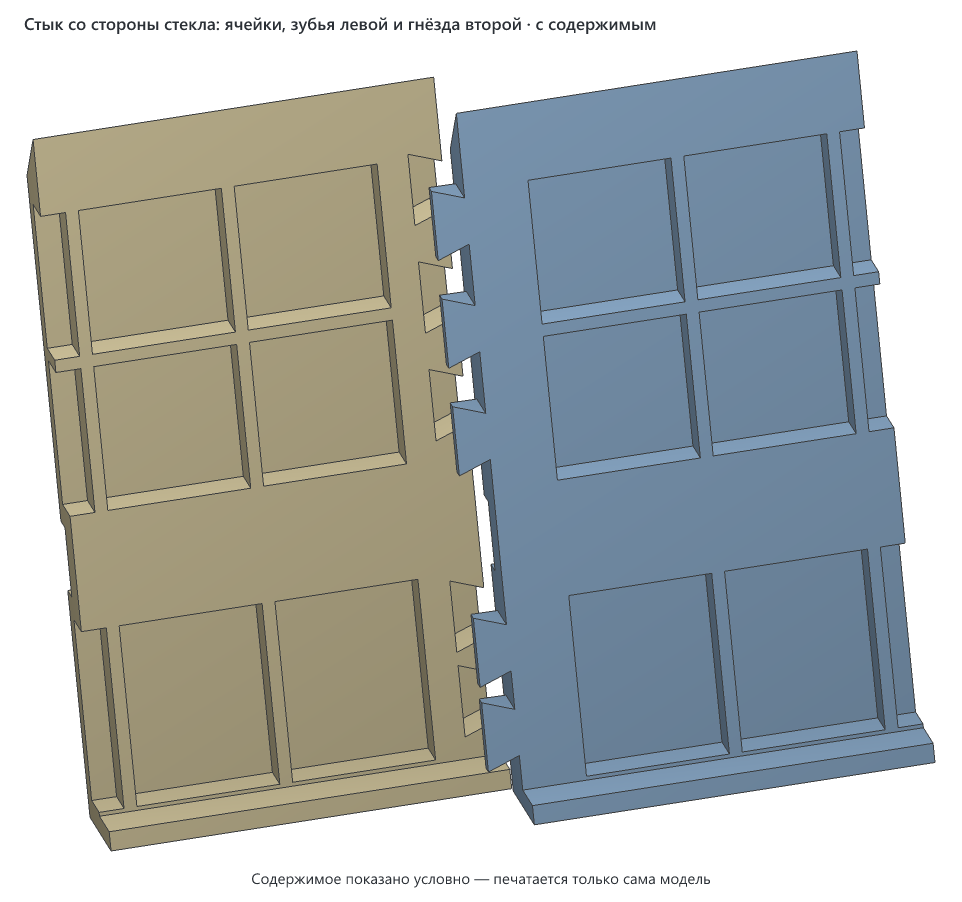
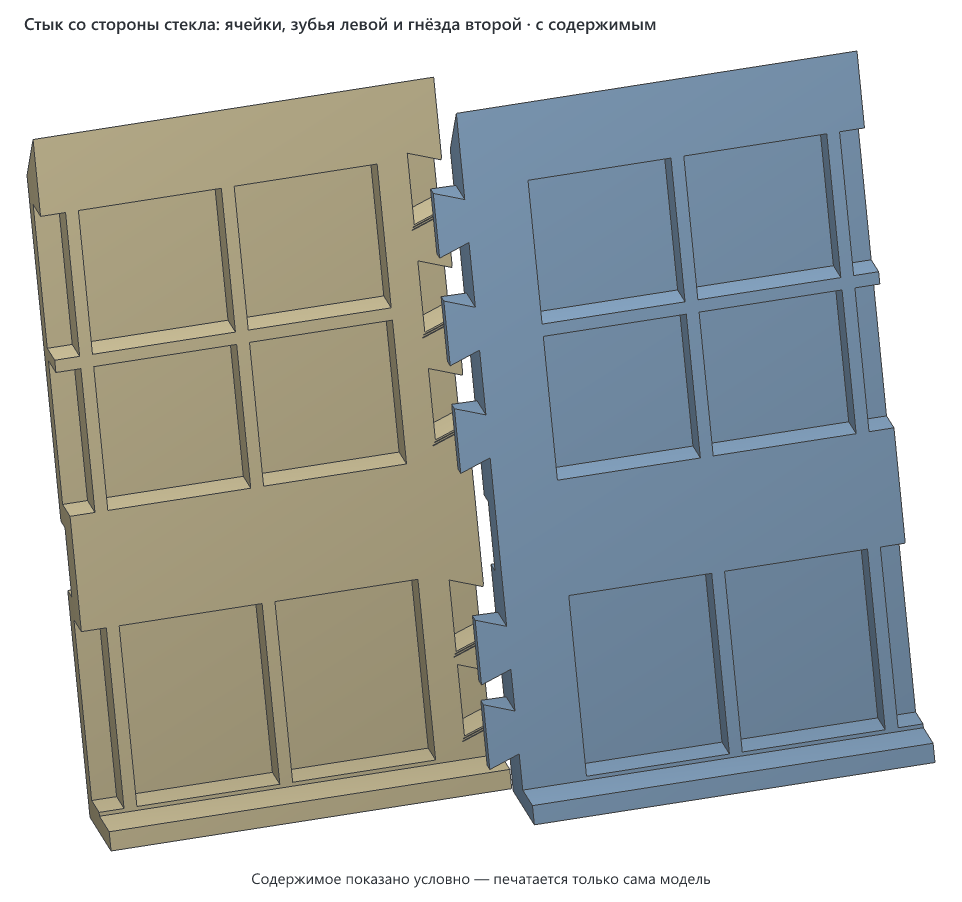
evoform-ledline-s-mirror-trim: зубья тоньше, фаска на входе в гнёзда
С зазором 0,1 мм на сторону напечатанные зубья в гнёзда не входили.
Теперь зуб меньше номинала на 0,2, гнездо больше на 0,1: зазор 0,3.
На входе в гнёзда фаска 0,4 мм ступеньками по слою. Новые зубья входят
и в гнёзда, уже напечатанные по прежнему файлу.

Changed region(s): [[0.4678, 0.6829, 0.5301, 0.8692], [0.4366, 0.1863, 0.499, 0.4346], [0.4366, 0.4346, 0.499, 0.5277]]

diff --git a/models/evoform-ledline-s-mirror-trim/v1/src/mirror_trim.py b/models/evoform-ledline-s-mirror-trim/v1/src/mirror_trim.py
@@ -96,7 +96,11 @@ from manifold3d import CrossSection, JoinType, Manifold
                           # доходит на конце зуба до 5,5 мм, и до задней грани (7) остаётся 1,5 мм толщины
 ЗУБ_ШЕЙКА, ЗУБ_ГОЛОВА = 6.0, 9.0   # ширина зуба у шва и на конце: «ласточкин хвост» держит детали вдоль зеркала
 ЗУБ_ОТ_ЛИЦА = 1.5         # зуб начинается в 1,5 мм за лицом: спереди шов прямой. Низ зуба скошен под 45° к шву
-ЗУБ_ЗАЗОР = 0.1           # зазор гнезда по контуру: зуб входит туго
+ЗУБ_ЗАЗОР = 0.1           # гнездо больше номинала по контуру на столько
+ЗУБ_УЖЕ = 0.2             # зуб меньше номинала по контуру на столько: вместе зазор 0,3 на сторону. С 0,1 на сторону
+                          # напечатанные зубья в гнёзда не входили: печатный PETG снаружи толще, в кармане уже
+ГНЕЗДО_ФАСКА = 0.4        # фаска на входе в гнездо (у задней грани), ступеньками по 0,2 — по слою. Больше нельзя:
+                          # между двумя нижними гнёздами стенка 1,8 мм
 ГНЕЗДО_ЛИЦО = 1.3         # дно гнезда: ровное, в 1,3 мм от лица
 ЗУБЬЯ_Z = (4.5, 15.5, 43.0, 57.0, 71.0)  # центры зубьев по высоте: два в нижней полосе, три в верхней
 
@@ -212,14 +216,18 @@ def underside_45(xs, d):
 def teeth(xs, d):
     m = Manifold()
     for zc in ЗУБЬЯ_Z:
-        m += extrude_y(tooth_outline(xs, d, zc), ТОЛЩИНА - ЗУБ_ОТ_ЛИЦА)
+        m += extrude_y(tooth_outline(xs, d, zc, -ЗУБ_УЖЕ), ТОЛЩИНА - ЗУБ_ОТ_ЛИЦА)
     return m - underside_45(xs, d)
 
 
 def sockets(xs, d):
     m = Manifold()
+    steps = round(ГНЕЗДО_ФАСКА / 0.2)
     for zc in ЗУБЬЯ_Z:
         m += extrude_y(tooth_outline(xs, d, zc, ЗУБ_ЗАЗОР), ТОЛЩИНА - ГНЕЗДО_ЛИЦО + 1).translate((0, 1, 0))
+        for i in range(1, steps + 1):   # фаска на входе: чем ближе к задней грани, тем шире
+            y0 = -ГНЕЗДО_ФАСКА + i * 0.2 - 0.2
+            m += extrude_y(tooth_outline(xs, d, zc, ЗУБ_ЗАЗОР + i * 0.2), -y0 + 1).translate((0, 1, 0))
     return m
 
 

diff --git a/models/evoform-ledline-s-mirror-trim/README.md b/models/evoform-ledline-s-mirror-trim/README.md
@@ -12,7 +12,7 @@
 - **Окна под держатели.** В крайних деталях есть окна под штатные держатели полки.
 - **Разрез под полку.** Во всех деталях на высоте полки идёт разрез. Полка проходит через него в держатели до упора.
 - **Как держится.** Каждая деталь лежит на полке верхней кромкой разреза: полка заходит в разрез на 2 мм. За краем полки остаётся перемычка 4,5 мм, она соединяет верх и низ детали и не даёт ей уйти вперёд. Клей и винты не нужны. На стекло накладка не давит, только прилегает.
-- **Стыки.** Детали вставляются друг в друга зубьями «ласточкин хвост» глубиной 4 мм, по пять на стык. Зубья есть только в задней части толщины, поэтому спереди шов прямой. Планку собирают на столе и надевают на зеркало целиком.
+- **Стыки.** Детали вставляются друг в друга зубьями «ласточкин хвост» глубиной 4 мм, по пять на стык. Зубья опускаются в гнёзда сверху. Зубья есть только в задней части толщины, поэтому спереди шов прямой. Планку собирают на столе и надевают на зеркало целиком.
 - **Сзади ячейки.** Лицо 2,4 мм сплошное, сзади ячейки, открытые к стеклу. Сплошные рёбра 3 мм идут по краям, вдоль разреза и вокруг окон, торцы сплошные. Так деталь меньше коробится на столе, и на неё уходит вдвое меньше пластика, чем на сплошную.
 - **Дно.** Внизу у детали дно, оно заходит под кромку стекла. Если из треснувшего угла выпадет кусок, он упадёт на дно, а не в раковину.
 
@@ -25,11 +25,11 @@
 3. **Заклейте трещины** прозрачным скотчем, не нажимая на треснувший кусок. Если кусок шевелится, дальше не идите (см. «Безопасность»).
 4. **Соберите планку на столе.** Детали пронумерованы слева направо, если смотреть на зеркало.
    - Положите деталь 3 лицом на стол.
-   - Поднесите деталь 2, тоже лицом вниз, так, чтобы её зубья встали над гнёздами детали 3, и вдавите сверху.
+   - Поднесите деталь 2, тоже лицом вниз, так, чтобы её зубья встали точно над гнёздами детали 3, и опустите её прямо вниз. Сдвигать детали друг к другу вдоль шва бесполезно: головка зуба шире входа в гнездо и сбоку не пройдёт.
    - Так же вставьте деталь 4 в другой торец детали 3.
    - Последней вставьте деталь 1 в свободный торец детали 2.
 
-   Зубья входят туго.
+   Зубья входят от руки: зазор 0,3 мм на сторону, на входе в гнёзда фаска.
 
    ![Стык со стороны стекла](v1/img/seam.png)
 
@@ -66,7 +66,7 @@
 Посадки с зазором:
 - держатель проходит в окно с зазором 1,5 мм с каждой стороны;
 - полка входит в разрез с зазором 1 мм снизу;
-- зубья входят в гнёзда с зазором 0,1 мм по контуру.
+- зубья входят в гнёзда с зазором 0,3 мм по контуру, на входе в гнёзда фаска 0,4 мм.
 
 На другом принтере и другой нити зазоры могут выйти иначе. Проверить их до печати целых деталей можно пробником: генератор делает его командой `--test` (кусок с окном и пара кусков со стыком).
 
